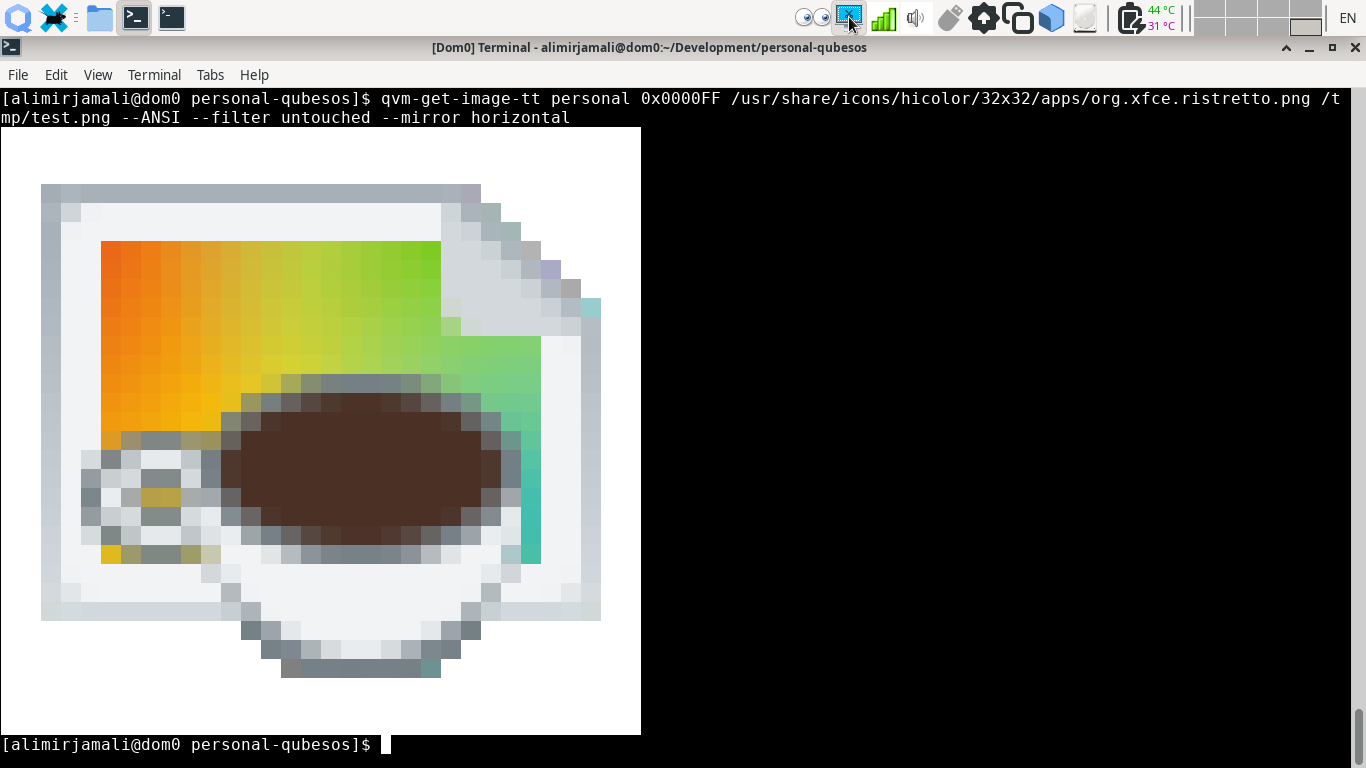
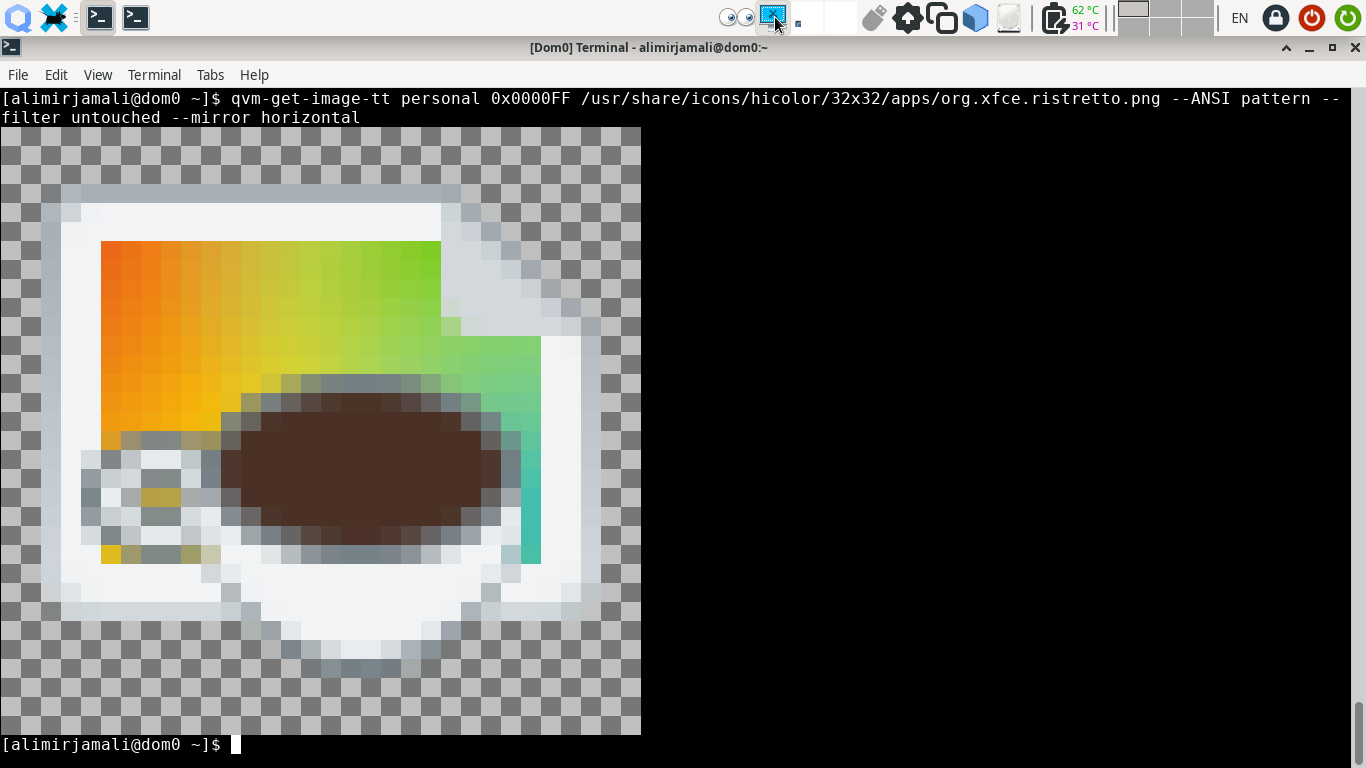
Refactoring, Unit Tests, qvm-get-image-tt improvements e.g. adding background choices for --ANSI

diff --git a/qubesimgconvertertt/__init__.py b/qubesimgconvertertt/__init__.py
@@ -35,24 +35,14 @@ class Image(qubesimgconverter.Image):
     def __init__(self, rgba, size):
           super().__init__(rgba, size) 
 
-    def ANSI(self):
-        '''Printing representation of image with ANSI escape codes'''
-        pixels = numpy.frombuffer(self._rgba, dtype=numpy.uint8).reshape(\
-                self.height, self.width, 4)
-        for row in pixels:
-            for pixel in row:
-                r, g, b = pixel[:3]
-                print("\033[48;2;%d;%d;%dm  " % (r, g, b), end='')
-            print("\033[0m")
-
     def alphacompositor(self, back):
-        ''' Compositing Image on top of another Image. See: '''
-        ''' https://en.wikipedia.org/wiki/Alpha_compositing for more info '''
+        ''' Compositing Image on top of another Image. See:                  '''
+        ''' https://en.wikipedia.org/wiki/Alpha_compositing for more info    '''
         tPixels = numpy.frombuffer(self._rgba, dtype=numpy.uint8).reshape(\
                 self.height, self.width, 4).astype(numpy.single)
         bPixels = numpy.frombuffer(back._rgba, dtype=numpy.uint8).reshape(\
                 back.height, back.width, 4).astype(numpy.single)
-        ''' Top image and back image dimensions might be different: '''
+        ''' Top image and back image dimensions might be different:          '''
         w = max(self.width, back.width)
         h = max(self.height, back.height)
         tPixels = numpy.pad(tPixels, [(0, w - self.width), \
@@ -63,7 +53,7 @@ class Image(qubesimgconverter.Image):
         bRGB = bPixels[...,:3]
         tAlpha = tPixels[...,3] / 255.0
         bAlpha = bPixels[...,3] / 255.0
-        outAlpha = tAlpha + bAlpha * (1 - tAlpha)
+        outAlpha = tAlpha + bAlpha * (1. - tAlpha)
 
         numpy.seterr(all='ignore')
         outRGB = (tRGB * tAlpha[..., numpy.newaxis] + bRGB * \
@@ -76,9 +66,10 @@ class Image(qubesimgconverter.Image):
         return self.__class__(rgba=outRGBA.tobytes(), size=[w, h])
 
     def overlay(self, color):
-        ''' Overlay image on a solid block of color, using its Alpha channel '''
+        ''' Overlay image on a solid block of color, using its Alpha channel.'''
+        ''' Alpha Compositor is not used here for performance related reasons'''
         pixels = numpy.frombuffer(self._rgba, dtype=numpy.uint8).reshape( \
-                self.height * self.width, 4).astype(numpy.integer)
+                self.height * self.width, 4).astype(numpy.uint32)
         back = numpy.array(hex_to_int(color))
         alpha = pixels[..., 3]
         pixels[..., :3] = (pixels[..., :3] * alpha[..., numpy.newaxis] + \
@@ -90,13 +81,13 @@ class Image(qubesimgconverter.Image):
 
     def border(self, color, percent):
         ''' Apply a border to image. Border width in pxiels as percent of    '''
-        ''' minimum of image width & height. Assuming (0. < percent < 50.) '''
+        ''' minimum of image width & height. Assuming (0. < percent < 50.)   '''
         mindim = min(self.height, self.width)
-        ''' 8x8 or smaller icons do not need borders. '''
+        ''' 8x8 or smaller icons do not need borders.                        '''
         if mindim <= 8: return self
         r, g, b = hex_to_int(color)
         border = numpy.full((self.width, self.height, 4), [r, g, b, 255])
-        ''' Proper passe-partout technique for best quality '''
+        ''' Proper passe-partout technique for best quality                  '''
         edge = int(mindim * percent / 100.)
         antialias = int(((mindim * percent) % 100.) * 255. / 100.)
         border[edge:-edge, edge:-edge]=numpy.array([r, g, b, antialias])
@@ -106,31 +97,58 @@ class Image(qubesimgconverter.Image):
                 size=self._size).alphacompositor(self)
 
     def thin_border(self, color):
-        """ 1.536 Pixel border is nice for thin borders of 32x32 icons """
+        ''' 1.536 Pixel border is nice for thin borders of 32x32 icons       '''
         return self.border(color, 4.8)
 
     def thick_border(self, color):
-        """ 2.048 Pixel border is nice for thick borders of 32x32 icons """
+        ''' 2.048 Pixel border is nice for thick borders of 32x32 icons      '''
         return self.border(color, 6.4)
 
     def untouched(self):
-        ''' Returning the untouched image '''
+        ''' Returning the untouched image i                                  '''
         return self
 
     def invert(self):
-        ''' Inverting image for a paranoid effect '''
+        ''' Inverting image for a paranoid effect                            '''
         pixels = numpy.frombuffer(self._rgba, dtype=numpy.uint8).reshape(\
-                self.height * self.width, 4).astype(numpy.integer)
+                self.height * self.width, 4).astype(numpy.uint32)
         pixels[..., :3] = 255 - pixels[..., :3]
         return self.__class__(rgba=pixels.astype(numpy.uint8).tobytes(), \
                 size=self._size)
 
     def mirror(self, axes):
-        ''' Mirror/flip image. I guess no one would ever use this'''
+        ''' Mirror/flip image. I guess no one would ever use this            '''
         pixels = numpy.frombuffer(self._rgba, dtype=numpy.uint8).reshape(\
                 self.height, self.width, 4)
         pixels = numpy.flip(pixels, axes)
         return self.__class__(rgba=pixels.tobytes(), \
                 size=self._size)
+
+    def ANSI(self, background="pattern"):
+        ''' Representation of image with ANSI esc codes. Default on GIMP-like'''
+        ''' grid to imply transparency of the image. '''
+        match background:
+            case "white":
+                img = self.overlay('0xffffff')
+            case "black":
+                img = self.overlay('0x000000')
+            case "pattern":
+                ''' x86 uint32 is little-endian, So Aplha values come first. '''
+                ''' To be fixed if Qubes is ported to IBM/360 or OpenRISC.   '''
+                pattern = numpy.full((self.width, self.height), 0xff777777, \
+                        dtype=numpy.uint32)
+                pattern[::2, ::2].fill(0xffc0c0c0)
+                pattern[1::2, 1::2].fill(0xffc0c0c0)
+                img = self.alphacompositor(self.__class__(rgba=pattern.astype( \
+                        numpy.uint32).tobytes(), size=self._size))
+            case _:
+                img = self.overlay(background)
+        pixels = numpy.frombuffer(img._rgba, dtype=numpy.uint8).reshape(\
+                self.height, self.width, 4)
+        for row in pixels:
+            for pixel in row:
+                r, g, b = pixel[:3]
+                print("\033[48;2;%d;%d;%dm  " % (r, g, b), end='')
+            print("\033[0m")
 
 # vim: ft=python sw=4 ts=4 et

diff --git a/qubesimgconvertertt/test.py b/qubesimgconvertertt/test.py
@@ -1,0 +1,69 @@
+from __future__ import absolute_import
+
+import asyncio
+
+try:
+    from io import BytesIO
+except ImportError:
+    from cStringIO import StringIO as BytesIO
+import unittest
+
+import qubesimgconvertertt
+import numpy as np
+from colorsys import hsv_to_rgb
+
+class TestCaseTweakTool(unittest.IsolatedAsyncioTestCase):
+    def setUp(self):
+        dim = 32
+        ''' Performing tests on a 32x32 image. Horizontally filled with      '''
+        ''' rainbow colors, vertical transparent 100% top, 0% bottom.        '''
+        img = np.full((dim, dim, 4), 0, dtype=np.uint8)
+        img[..., 3] = np.arange(0, 255, 255/dim, dtype=np.uint8)
+        img = np.rot90(img, 2)
+        for hue in range(0,dim):
+            (r, g, b) = hsv_to_rgb(hue/dim, 1.0, 1.0)
+            R, G, B = int(255 * r), int(255 * g), int(255 * b)
+            img[hue, ..., :3] = [R, G, B]
+        img = np.rot90(img)
+        self.img = img
+        self.rgba = img.tobytes()
+        self.size = (dim, dim)
+        self.image = qubesimgconvertertt.Image(rgba=self.rgba, size=self.size)
+    
+    def test_00_init(self):
+        self.assertEqual(self.image._rgba, self.rgba)
+        self.assertEqual(self.image._size, self.size)
+
+    def test_01_ANSI(self):
+        print ("ANSI print of original image:")
+        self.image.ANSI()
+
+    def test_02_alphacompositor(self):
+        back = qubesimgconvertertt.Image(rgba=np.rot90(self.img[::2, ::2])\
+                .tobytes(), size=(int(self.size[0]/2), int(self.size[1]/2)))
+        image = self.image.alphacompositor(back)
+        print ("Alpha Compositor:")
+        image.ANSI()
+
+    def test_03_overlay(self):
+        image = self.image.overlay('#0000ff')
+        print ("Overlay:")
+        image.ANSI()
+
+    def test_04_border(self):
+        image = self.image.border('#0000ff',7.23)
+        print ("Border:")
+        image.ANSI()
+
+    def test_05_invert(self):
+        image = self.image.invert()
+        print ("Invert:")
+        image.ANSI()
+
+    def test_06_mirror(self):
+        image = self.image.mirror((0,1))
+        print ("Mirror:")
+        image.ANSI()
+
+if __name__ == '__main__':
+    unittest.main()

diff --git a/qubesimgconvertertt/README.md b/qubesimgconvertertt/README.md
@@ -1,11 +1,11 @@
 # `qubesimgconvertertt` & `qvm-get-image-tt` notes
-Custom effects for Qubes OS application icons. Provided effects are **overlay, 
-thin-border, thick-border** as well as the standard _tint_ which use the label 
-color for their effects. Special filters of **untouched, invert, mirror, flip**
-are also available. Screenshot of the effects are at the bottom of this page.
-Real-life use cases are documented and explained in
-[qubesappmenustt](/qubesappmenustt) and
-[window-icon-updater-tt](/window-icon-updater-tt) directories.
+Library and Utility for custom effects of Qubes OS VM icons. Provided effects 
+are **overlay, thin-border, thick-border** as well as the standard _tint_ which
+use the label color for their effects. Special filters of **untouched, invert,
+mirror, flip** are also available. [Screenshots](#screenshots--demo) of Tweak
+Tools effects are at the bottom of this page. Real-life use cases are 
+documented and explained in [qubesappmenustt](/qubesappmenustt) and
+[window-icon-updater-tt](/window-icon-updater-tt) sub-directories.
 
 ### Internals & Features
 The `qubesimgconvertertt` library is derived from the original
@@ -13,7 +13,7 @@ The `qubesimgconvertertt` library is derived from the original
 library and _Image_ class. Effects are written as individual methods.
 
 The `qvm-get-image-tt` is an independent utility which could be used as a
-drop-in replacement for `qvm-get-image` or `qvm-get-tinted-image`. Based on
+drop-in replacement for `qvm-get-tinted-image`. Based on
 [qubes-app-linux-img-converter](https://github.com/QubesOS/qubes-app-linux-img-converter)
 utilities with additional _--filter_ & _--mirror_ options which allows user to
 select the desired filter. An extra _--ANSI_ function is provided to quickly
@@ -41,14 +41,22 @@ make remove
 
 ### Limitations, Issues & ToDo
 These are the current known limitation with the tool & library:
+- Performance of the Tweak Tool effects are not evaluated and compared with the
+default tint. They are already fast but there is always room for improvements.
+- Original unit tests are performed on a 2x2 image. Mostly done from security
+perspective. Not suitable for most of the Tweak Tool effects. Individual unit
+tests are required.
+- Currently tested only on Qubes OS 4.2.1
+- Theoretically it should be possible to install the library and utility within
+any Qube if the dependency (`python3-qubesimgconverter`) is installed in its
+template. And if the necessary policies to allow it to retrieve Image from
+destination VM(s) is granted. This is yet to be tested and documented.
 - It should be noted that the current _systray_ effects are not implemented via
 the `qubesimgconverter` library but are rather written in C language and a part of
 [qubes-gui-daemon](https://github.com/QubesOS/qubes-gui-daemon/tree/main/gui-daemon)
-repository. Further study of its mechanism is needed.
-- Performance of the Tweak Tool effects are not evaluated and compared with the
-default tint. They are already fast but there is always room for improvements.
-- Test Units should be added.
-- Currently tested only on Qubes OS 4.2.1
+repository. Further study of its mechanism is needed. Github Issue
+[#2846](https://github.com/QubesOS/qubes-issues/issues/2846) provides better
+context.
 
 ### Credits
 - Inspirational piece of code 
@@ -58,43 +66,61 @@ on [Alpha Compositing](https://en.wikipedia.org/wiki/Alpha_compositing).
 ### Screenshots & Demo
 The untouched 32x32 pixel Icon of Ristretto. ANSI color representation of
 output is printed to the terminal via __--ANSI__ option.
-
+```
+qvm-get-image-tt personal 0x0000FF /usr/share/icons/hicolor/32x32/apps/org.xfce.ristretto.png --ANSI pattern --filter untouched
+```
 ![](effect-untouched.png)
 
-The default __Tint__ effect. Original work by Wojciech Porczyk and others.
-
+The default __Tint__ effect. Original work by Wojciech Porczyk et. al.
+```
+qvm-get-image-tt personal 0x0000FF /usr/share/icons/hicolor/32x32/apps/org.xfce.ristretto.png --ANSI pattern --filter tint
+```
 ![](effect-tint.png)
 
-Overlaying image on provided color using its Alpha channel.
-
+Overlaying image on the provided color using images Alpha channel.
+```
+qvm-get-image-tt personal 0x0000FF /usr/share/icons/hicolor/32x32/apps/org.xfce.ristretto.png --ANSI pattern --filter overlay
+```
 ![](effect-overlay.png)
 
 Thin and Thick borders. Bordering supports percentage of image instead of fixed
 pixel count. This allows consistent results on HiDPI displays. The anti-aliased 
 1.536 pixel width thin-border for 32x32 icons is much more distinguishable and
 comfortable than the fixed 1 pixel width.
-
+```
+qvm-get-image-tt personal 0x0000FF /usr/share/icons/hicolor/32x32/apps/org.xfce.ristretto.png --ANSI pattern --filter thin-border
+```
 ![](effect-thin-border.png)
-
+```
+qvm-get-image-tt personal 0x0000FF /usr/share/icons/hicolor/32x32/apps/org.xfce.ristretto.png --ANSI pattern --filter thick-border
+```
 ![](effect-thick-border.png)
 
 Special invert effect is very useful for __untrusted__ VM. As it implies a
 paranoid effect.
-
+```
+qvm-get-image-tt personal 0x0000FF /usr/share/icons/hicolor/32x32/apps/org.xfce.ristretto.png --ANSI pattern --filter invert
+```
 ![](effect-invert.png)
 
 Mirrored or flipped icons are not that much usable as in practice, our brains do
 not register them well as distinguishable effects.
-
+```
+qvm-get-image-tt personal 0x0000FF /usr/share/icons/hicolor/32x32/apps/org.xfce.ristretto.png --ANSI pattern --filter untouched --mirror horizontal
+```
 ![](effect-mirrored.png)
 
 Alpha Compositing 16x16 pixel Firefox icon on Chrome icon. This effect could be
 useful for compositing qube icon on application icons. It is necessary to
-consult professional UIUX experts for better feedback.
-
+consult professional UI/UX experts for better feedback.
+```
+qvm-get-image-tt personal 0x0000FF /usr/share/icons/hicolor/16x16/apps/firefox.png --ANSI pattern --filter untouched --alphacomposite /usr/share/icons/hicolor/32x32/apps/google-chrome.png
+```
 ![](effect-alphacompositor.png)
 
 Mixed effects are feasible. Here is a mirrored Wilber (GIMP’s macot), tinted
 with Magenta, finally composited on Qubes OS icon.
-
+```
+qvm-get-image-tt personal 0xFF00FF /usr/share/icons/hicolor/16x16/apps/gimp.png --mirror horizontal --filter tint --alphacomposite /usr/share/icons/hicolor/32x32/apps/qubes-logo-icon.png --ANSI pattern
+```
 ![](effect-mix-effects.png)
